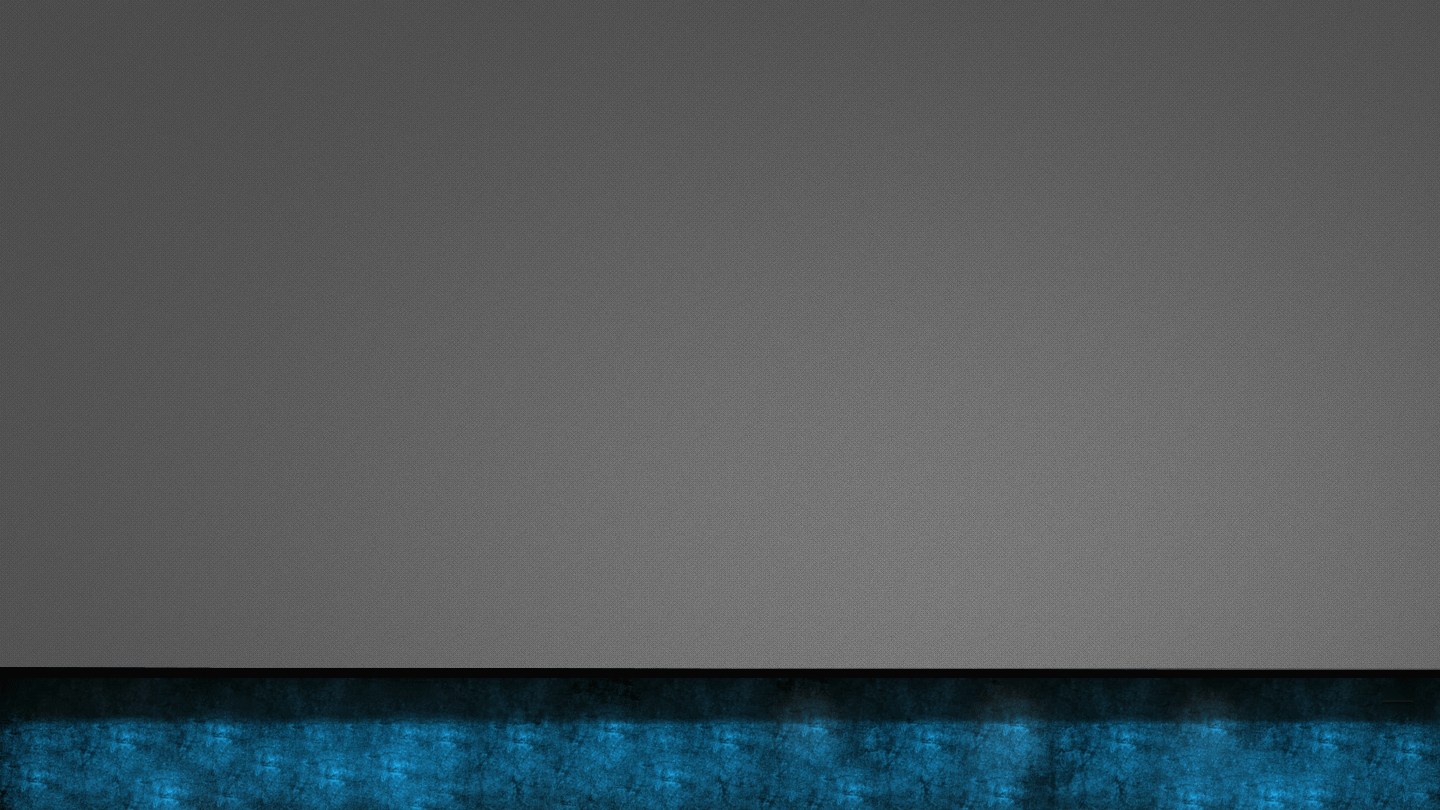
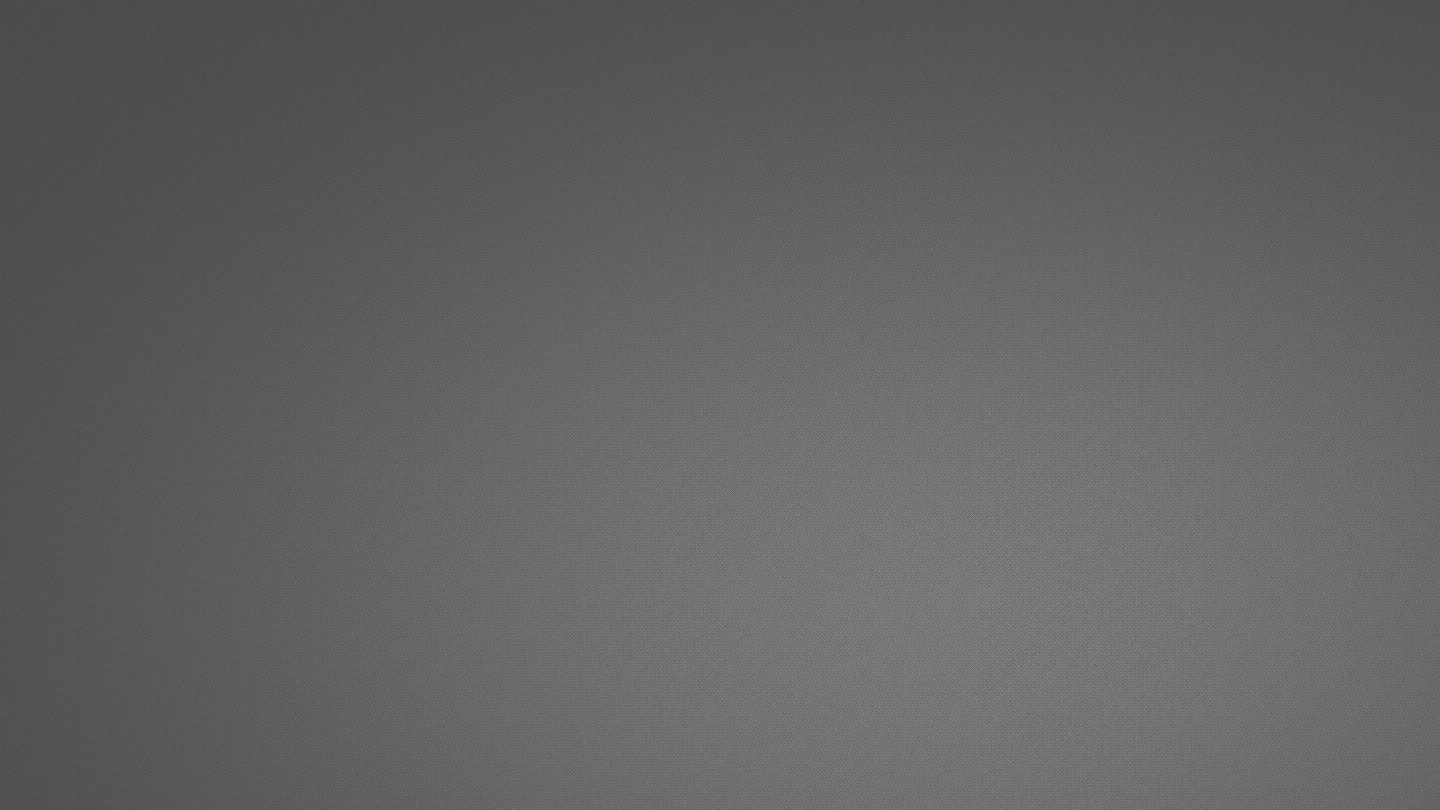
Setup Changin Background

Changed region(s): [[0.0, 0.8025, 1.0, 1.0]]

diff --git a/src/streetFighterSimulation/HomeScreen.java b/src/streetFighterSimulation/HomeScreen.java
@@ -9,7 +9,14 @@ public class HomeScreen extends World {
 	public HomeScreen() {
 		super(WORLDWIDTH, WORLDHEIGHT, 1);
 		this.addObject(new Background("image/Map_1.png"), WORLDWIDTH/2, WORLDHEIGHT/2);
-		this.addObject(new Button("image/Dragon_Stage.gif"), WORLDWIDTH/2, WORLDHEIGHT/2);
+		AddMapChoices();
+	}
+
+	private void AddMapChoices() {
+		this.addObject(new MapButton("image/Dragon_Stage.gif"), WORLDWIDTH/4, WORLDHEIGHT/4);
+		this.addObject(new MapButton("image/Forest-0_Stage.gif"), WORLDWIDTH/4*3, WORLDHEIGHT/4);
+		this.addObject(new MapButton("image/Forest-1_Stage.gif"), WORLDWIDTH/4, WORLDHEIGHT/4*3);
+		this.addObject(new MapButton("image/Temple_Stage.gif"), WORLDWIDTH/4*3, WORLDHEIGHT/4*3);
 	}
 
 }

diff --git a/src/streetFighterSimulation/Stage.java b/src/streetFighterSimulation/Stage.java
@@ -1,0 +1,18 @@
+package streetFighterSimulation;
+
+import greenfoot.World;
+
+public class Stage extends World {
+
+	public Stage(int worldWidth, int worldHeight, int cellSize, MapButton mapButton) {
+		super(worldWidth, worldHeight, cellSize);
+		setBackground(mapButton,worldHeight,worldWidth);
+	}
+
+	private void setBackground(MapButton mapButton, int worldHeight, int worldWidth) {
+		if(mapButton.nameOfMap == "image/Dragon_Stage.gif"){
+			this.addObject(new Background("image/Dragon_Stage.gif"),worldWidth/2 , worldHeight/2);
+		}
+	}
+
+}

diff --git a/src/streetFighterSimulation/MapButton.java b/src/streetFighterSimulation/MapButton.java
@@ -1,0 +1,24 @@
+package streetFighterSimulation;
+
+import greenfoot.Greenfoot;
+
+public class MapButton extends Button {
+
+	String nameOfMap = "";
+	
+	public MapButton(String s) {
+		super(s);
+		nameOfMap = s;
+	}
+
+	public void act (){
+		DetermineWhatToDoWhenClicked();
+	}
+
+	private void DetermineWhatToDoWhenClicked() {
+		if(Greenfoot.mouseClicked(this)){
+			Greenfoot.setWorld(new Stage(1440,810,1,this));
+		}
+	}
+	
+}

diff --git a/src/streetFighterSimulation/Button.java b/src/streetFighterSimulation/Button.java
@@ -16,8 +16,5 @@ public class Button extends Actor{
 		this.setImage(box);
 	}
 	
-	public void act(){
-		
-	}
 	
 }
